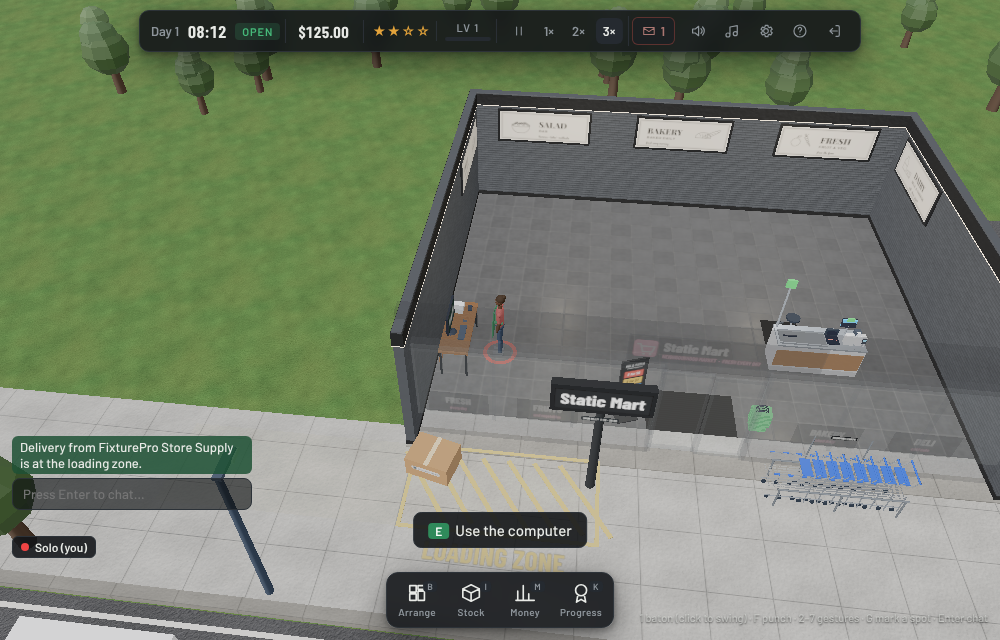
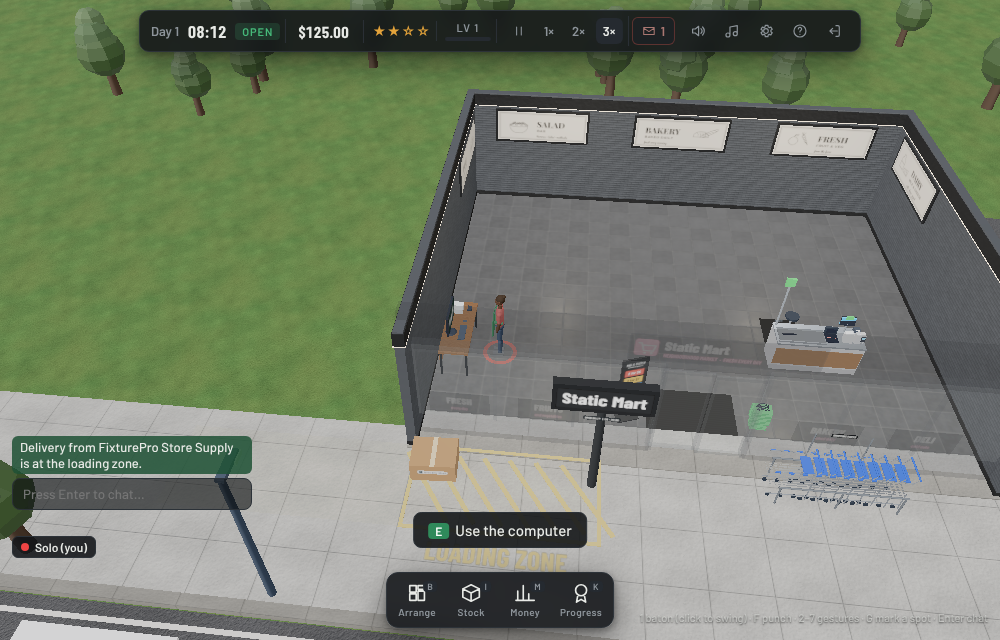
Desktop app tells players when a newer release is out (download button for their system); release builds carry their number
Claude-Session: https://claude.ai/code/session_01X2PKgbm7Tu77xXChmahhb4

diff --git a/client/js/updates.js b/client/js/updates.js
@@ -1,0 +1,28 @@
+// Desktop app only: on start, ask GitHub whether a newer release exists and offer to download it.
+// The web version is always current, so it never checks. Release builds carry their number in version.js (RELEASE).
+import { RELEASE } from './version.js';
+
+const LATEST = 'https://api.github.com/repos/omernegri-oss/-STEM/releases/latest';
+
+export async function checkForUpdate() {
+  if (!window.desktopApp || !RELEASE) return;
+  let rel;
+  try {
+    const r = await fetch(LATEST, { headers: { Accept: 'application/vnd.github+json' }, cache: 'no-store' });
+    if (!r.ok) return;
+    rel = await r.json();
+  } catch { return; } // offline: try again next start
+  const n = +String(rel.tag_name || '').replace(/^build-/, '');
+  if (!(n > RELEASE)) return;
+  try { if (localStorage.getItem('st_skip_update') === String(n)) return; } catch {}
+  const bar = document.getElementById('update-bar'); if (!bar) return;
+  // the download for this computer, or the release page if it is not found
+  const pf = navigator.userAgent;
+  const want = /Windows/.test(pf) ? /windows-setup\.exe$/ : /Mac/.test(pf) ? /mac\.zip$/ : /linux\.tar\.gz$/;
+  const asset = (rel.assets || []).find(a => want.test(a.name));
+  const link = (asset && asset.browser_download_url) || rel.html_url;
+  bar.querySelector('[data-up-text]').textContent = `A new version of the game is out (build ${n}, you have build ${RELEASE}).`;
+  bar.querySelector('[data-up-get]').onclick = () => window.open(link, '_blank');
+  bar.querySelector('[data-up-later]').onclick = () => { bar.classList.add('hidden'); try { localStorage.setItem('st_skip_update', String(n)); } catch {} };
+  bar.classList.remove('hidden');
+}

diff --git a/client/css/style.css b/client/css/style.css
@@ -458,3 +458,6 @@ button.den.small { cursor: pointer; }
 @media (max-width: 900px) { .debt { display: none; } }
 .rate-stars { color: var(--warn); letter-spacing: 2px; margin-left: 6px; }
 .swatch { display: block; width: 100%; height: 26px; border-radius: 5px; border: 1px solid var(--line); margin-bottom: 6px; }
+.update-bar { display: flex; flex-direction: column; gap: 8px; background: rgba(58,165,109,.12); border: 1px solid rgba(58,165,109,.5); border-radius: 8px; padding: 10px 12px; margin-bottom: 14px; font-size: 14px; }
+.update-bar.hidden { display: none; }
+.update-bar div { display: flex; gap: 8px; }

diff --git a/client/index.html b/client/index.html
@@ -16,6 +16,7 @@
     <section id="menu" class="screen">
       <div class="menu-bg"></div>
       <div class="menu-card">
+        <div id="update-bar" class="update-bar hidden"><span data-up-text></span><div><button class="btn small primary" data-up-get>Download update</button><button class="btn small" data-up-later>Later</button></div></div>
         <div class="logo"><img class="logo-mark" src="img/logo.svg" alt="" width="56" height="56" /><h1>SUPERMARKET</h1></div>
         <p class="tagline">Run a neighbourhood supermarket with up to four friends.</p>
         <div class="field">

diff --git a/client/js/main.js b/client/js/main.js
@@ -8,6 +8,8 @@ import { OnlineHost, OnlineNet, localServerSocket, onlineAvailable } from './onl
 import { createScene } from './scene.js';
 import { prewarmTextures } from './textures.js';
 import { initTelemetry, reportBug, telemetryAllowed, setTelemetry } from './telemetry.js';
+import { checkForUpdate } from './updates.js';
+checkForUpdate(); // desktop app: offer a newer version if one is out (runs before the 3D scene loads)
 import { World } from './world.js';
 import { Actors, carryModel } from './actors.js';
 import { makeBaton, makeCart } from './models.js';

diff --git a/client/js/version.js b/client/js/version.js
@@ -1,2 +1,3 @@
 // Which build this is (shown with bug reports). The release tools overwrite this file; in development it says "dev".
 export const BUILD = 'dev';
+export const RELEASE = 0; // the desktop release number (build-N), set by the release build
